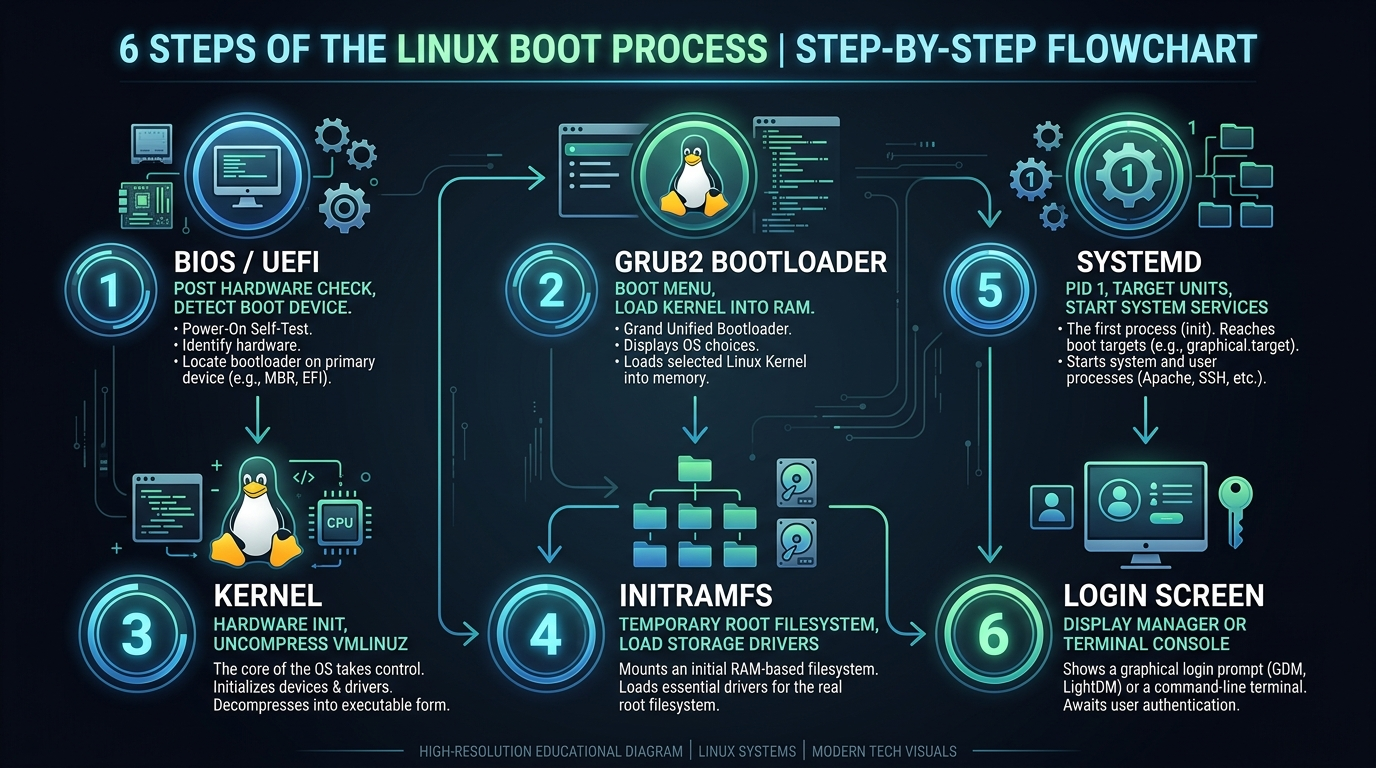
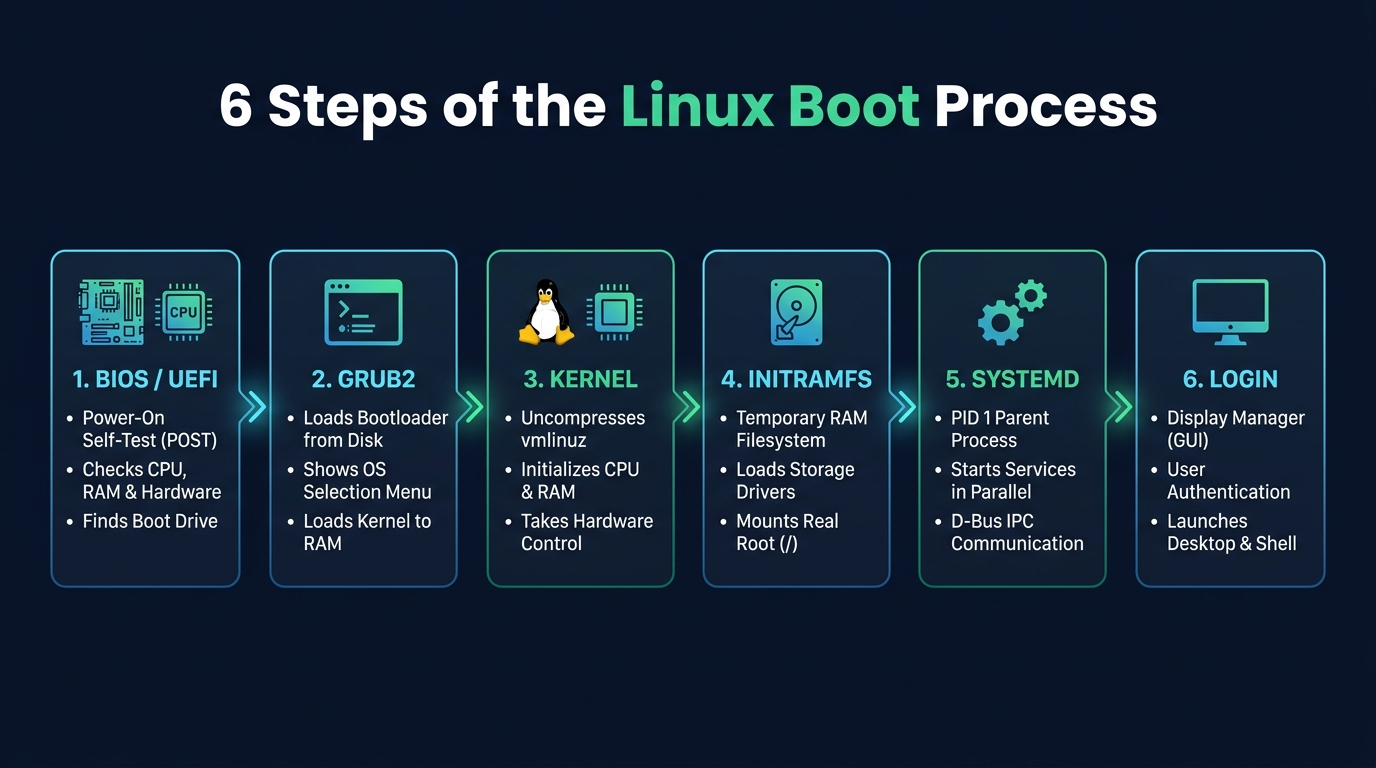
update boot process image

diff --git a/LINUX_BOOT_PROCESS.md b/LINUX_BOOT_PROCESS.md
@@ -2,6 +2,9 @@
 
 පරිගණකයක Power Button එක එබූ මොහොතේ සිට ඔබ ඉදිරියට Desktop එක හෝ Terminal Login Prompt එක පැමිණෙන තෙක් තිරය පිටුපස සිදුවන **Linux Booting Process** එක ඉතා සරලව, සැබෑ ජීවිතයේ උදාහරණ (Real-life Analogy) සමගින් පියවරෙන් පියවර මෙහි විස්තර කෙරේ.
 
+> 📺 **වීඩියෝ ආශ්රය (YouTube Video Reference):**  
+> මෙම පාඩම [▶ Linux boot process Explained - Animated](https://youtu.be/lLg0dp9Pic8?si=k-yDi9NilKPHg1zX) වීඩියෝව පාදක කරගනිමින්, එහි විස්තර වන ප්රධාන සංකල්ප (Choreographed Relay Race, Parallel Systemd Units, D-Bus Communication Bus, සහ Bottleneck Critical Chain Analysis) පරිපූර්ණව ගළපා සකස් කර ඇත.
+
 ---
 
 ## 🖼 Linux Boot Process එකේ ප්රධාන පියවර 6 (Visual Flowchart)
@@ -11,17 +14,36 @@
 > 💡 **රූපය පෙනෙන්නේ නැතිනම්:** IDE / VS Code එකේ ඉහළ දකුණු කෙළවරේ ඇති **"Open Preview"** icon එක ක්ලික් කරන්න (කෙටිමං යතුර: `Ctrl + Shift + V`). 
 > නැතහොත් රූපය කෙලින්ම විවෘත කර බැලීමට [මෙතැන ක්ලික් කරන්න (Click to open image)](./linux_boot_process.jpg).
 
+### 📋 රූපයේ ඇති පියවර 6 හි නිශ්චිත ක්රියාකාරකම් (Step-by-Step Actions):
+
+| පියවර (Card) | ප්රධාන කාර්යය (Core Duty) | එක් එක් පියවරේදී සිදුවන දේ (What Happens) |
+| :---: | :--- | :--- |
+| **1. BIOS / UEFI** | **Hardware POST Check** | • **Power-On Self-Test (POST):** CPU, RAM, Keyboard, GPU හරියට තියෙනවද පරික්ෂා කරයි.<br/>• **Hardware Initializing:** Motherboard bus සහ මූලික උපාංග හඳුනා ගනී.<br/>• **Finds Boot Drive:** Boot priority අනුව Hard Drive/NVMe හෝ USB සෙවීම. |
+| **2. GRUB2** | **Bootloader & Menu** | • **Loads Bootloader from Disk:** Disk එකෙන් (MBR / EFI) Bootloader RAM එකට ගනී.<br/>• **Shows OS Selection Menu:** තිරයේ තත්පර ගණනක OS තේරීමේ මෙනුව පෙන්වයි.<br/>• **Loads Kernel to RAM:** ඔබ තෝරන Linux Kernel (`vmlinuz`) & `initrd` RAM එකට දමයි. |
+| **3. KERNEL** | **OS Core & Hardware Init** | • **Uncompresses vmlinuz:** සම්පීඩිත Kernel ගොනුව RAM එක තුළ විසුරුවා හරියි.<br/>• **Initializes CPU & RAM:** CPU Cores, Memory Controllers සක්රීය කරයි.<br/>• **Takes Hardware Control:** උපාංග සියල්ලේම මූලික පාලනය තම අතට ගනී. |
+| **4. INITRAMFS** | **Drivers & Mount Root** | • **Temporary RAM Filesystem:** RAM එක තුළ තාවකාලික root directory (`/`) එකක් හදයි.<br/>• **Loads Storage Drivers:** NVMe, SATA, LVM, RAID සහ Ext4/XFS drivers load කරයි.<br/>• **Mounts Real Root (/):** සැබෑ Hard Disk එක හඳුනාගෙන සැබෑ `/` partition එක Mount කරයි. |
+| **5. SYSTEMD** | **PID 1 & Parallel Services** | • **PID 1 Parent Process:** OS එකේ මුල්ම user space process එක ලෙස ක්රියාත්මක වේ.<br/>• **Starts Services in Parallel:** Network, Wi-Fi, SSH, Audio, Daemons එකවර පණ ගන්වයි.<br/>• **D-Bus IPC Communication:** සේවාවන් අතර පණිවිඩ හුවමාරුවට D-Bus ක්රියාත්මක කරයි. |
+| **6. LOGIN** | **Display Manager & Session** | • **Display Manager (GUI):** GDM/LightDM හරහා Graphical Login UI එක (හෝ TTY) දෙයි.<br/>• **User Authentication:** පරිශීලක නාමය සහ මුරපදය තහවුරු කරගනී.<br/>• **Launches Desktop & Shell:** `~/.bashrc` කියවා GNOME/KDE හෝ Bash Shell එක විවෘත කරයි. |
+
 ---
 
-## 💡 සරල ජීවිත උදාහරණය (Real-Life Analogy)
+## 💡 සරල ජීවිත උපමා 2ක් (Real-Life Analogies)
 
-Linux Boot Process එක හරියට **විශාල හෝටලයක් උදෑසන විවෘත කරනවා වගේ වැඩක්:**
+### 🏃 1. "The Choreographed Relay Race" (බැටන් පොල්ල මාරු වන රිලේ තරඟය)
+වීඩියෝවේ දක්වන පරිදි Linux Boot වීම යනු ඉතා සැලසුම් සහගත **රිලේ තරඟයක් (Choreographed Relay Race)** බඳුය. එක් ක්රීඩකයෙක් (Stage) තම වගකීම නිමවා, පද්ධතියේ පාලනය නමැති **"බැටන් පොල්ල" (Baton)** ඊළඟ ක්රීඩකයාට අතින් අත භාර දෙයි:
+1. 🏃 **Runner 1 (BIOS / UEFI):** ධාවන පථය (Hardware) පරීක්ෂා කර සූදානම් කරයි ➔ **Baton එක GRUB වෙත.**
+2. 🏃 **Runner 2 (GRUB Bootloader):** දුවන්නේ කිනම් ධාවන පථයේද (OS/Kernel) කියා තෝරා ගනී ➔ **Baton එක Kernel වෙත.**
+3. 🏃 **Runner 3 (Kernel & Initramfs):** මොළය ක්රියාත්මක කර, Initramfs සහායකයා ලවා ගබඩාවේ (Hard Disk) දොර ඇරගනී ➔ **Baton එක Systemd (PID 1) වෙත.**
+4. 🏃 **Runner 4 (Systemd - The Orchestrator):** සියලු පසුබිම් සේවාවන් (Network, Audio, Bluetooth) එකවර සමාන්තරව පණ ගන්වයි.
+5. 📻 **The Walkie-Talkie (D-Bus):** සේවාවන් සහ Desktop එක එකිනෙකා සමඟ කතා කර ගැනීමට D-Bus නම් සංඥා පද්ධතිය ක්රියාත්මක කරයි.
+6. 🏁 **The Finish Line (Login Screen & Desktop):** පරිශීලකයාට සුබ පතමින් Graphical Desktop එක හෝ Shell එක විවෘත කර තරඟය ජයග්රාහීව නිමා කරයි!
 
+### 🏨 2. "The Hotel Opening" (හෝටලයක් විවෘත කිරීමේ උපමාව)
 1. **BIOS / UEFI:** මුරකරු පැමිණ හෝටලයේ ප්රධාන විදුලිය, ජල සැපයුම, දොර ජනෙල් හරියට තිබේදැයි පරික්ෂා කරයි (Hardware Check).
 2. **GRUB Bootloader:** හෝටල් කළමනාකරු පැමිණ අද දිනයේ ක්රියාත්මක කළ යුත්තේ සාමාන්ය මෙනුවද (Normal Kernel) නැතහොත් හදිසි අලුත්වැඩියා මෙනුවද (Recovery Mode) කියා තෝරා ගනී.
 3. **Kernel:** ප්රධාන විධායක නිලධාරියා (CEO) ඇතුළු වී මුළු හෝටලයේම අංශ පාලනය භාර ගනී.
 4. **Initramfs:** ප්රධාන ගබඩා කාමරයේ යතුරු රැගෙන ගබඩාවේ දොර විවෘත කරගනී (Hard Disk Drivers load කිරීම).
-5. **Systemd (PID 1):** ප්රධාන මැනේජර් පැමිණ කුස්සිය, AC, Lighting, Security කැමරා ආදී සියලුම සේවාවන් එකින් එක පණ ගන්වයි (Services Start).
+5. **Systemd (PID 1):** ප්රධාන මැනේජර් පැමිණ කුස්සිය, AC, Lighting, Security කැමරා ආදී සියලුම සේවාවන් එකවර පණ ගන්වයි (Services Start).
 6. **Login Screen:** හෝටලයේ ප්රධාන දොරටුව අමුත්තන් (Users) සඳහා විවෘත කර පිළිගැනීමේ කවුන්ටරය (Reception Desk) සූදානම් කරයි.
 
 ---
@@ -100,31 +122,49 @@ flowchart TD
 
 ---
 
-### පියවර 5: Systemd / Init (ප්රධාන පාලකයා - PID 1)
+### පියවර 5: Systemd / Init (ප්රධාන පාලකයා - PID 1 & Orchestrator)
 
 * **PID 1 යනු:** Process ID 1. Linux පද්ධතියේ ධාවනය වන අනෙකුත් සියලුම processes වල මව් process එක (Parent of all processes) මෙයයි.
-* **නූතන පද්ධති වල:** Ubuntu, Debian, RedHat, CentOS, Fedora, Arch ආදී සියල්ලෙහිම දැන් default භාවිත වන්නේ **Systemd** වේ. (පැරණි Linux වල SysV Init භාවිත විය).
-* **සිදුවන දේ:**
-  * `/etc/fstab` ගොනුව කියවා ඉතිරි සියලුම Hard drive partitions mount කරයි.
-  * පසුබිමේ ධාවනය වන සේවාවන් (Daemons/Services) සමාන්තරව (parallelly) වේගයෙන් පණ ගන්වයි:
-    * Networking & Wi-Fi සේවාවන්
-    * SSH Server (`sshd`)
-    * Cron jobs (`cron`)
-    * Firewall & Security policies
-    * Sound, Bluetooth, Printing සේවාවන්
-* **Systemd Targets:** 
-  * `multi-user.target`: CLI (Terminal පමණක් ඇති Server පරිසරයක්).
-  * `graphical.target`: GUI (Desktop Environment එක සහිත පරිසරයක්).
+* **නූතන පද්ධති වල:** Ubuntu, Debian, RedHat, CentOS, Fedora, Arch ආදී සියල්ලෙහිම දැන් default භාවිත වන්නේ **Systemd** වේ.
+* **⚡ Parallel Execution (වේගයේ රහස):**
+  * පැරණි **SysV Init** ක්රමයේදී සේවාවන් පණ ගැන්වුණේ එකින් එක පිළිවෙලට (Serial/Sequential) බැවින් පරිගණකය boot වීමට මිනිත්තු කිහිපයක් ගත විය.
+  * නමුත් **Systemd** මඟින් සේවාවන් අතර ඇති dependencies හඳුනාගෙන එකවර සේවාවන් රැසක් **සමාන්තරව (In Parallel)** පණ ගන්වයි. එම නිසා නූතන Linux තත්පර 3-5 කින් boot වේ!
+* **Systemd Unit Files:** 
+  * `.service`: පසුබිම් සේවා (උදා: `NetworkManager.service`, `bluetooth.service`, `sshd.service`).
+  * `.target`: සේවා සමූහයක් එකට එකතු කරන ඉලක්ක (උදා: `graphical.target`, `multi-user.target`).
+  * `.socket`, `.mount`, `.timer`: අවශ්ය විටෙක පමණක් සේවා පණ ගන්වන නවීන ක්රම.
+
+#### 🚌 නොපෙනෙන සන්නිවේදකයා: D-Bus (Desktop Bus)
+වීඩියෝවේ විශේෂයෙන් පැහැදිලි කරන අතිශය වැදගත් කොටසක් වන්නේ **D-Bus** ය:
+* **D-Bus යනු කුමක්ද?:** **Inter-Process Communication (IPC)** පද්ධතියකි. පද්ධතියේ ධාවනය වන විවිධ සේවාවන් එකිනෙකා සමඟ කතාබහ කරන්නේ D-Bus හරහාය.
+* **System Bus:** මුළු Operating System එකටම පොදු සංඥා හුවමාරු කරයි (උදා: Wi-Fi සම්බන්ධ වීම, Battery low වීම, Pen drive එකක් ඇතුළු කළ බව දැනුම් දීම).
+* **Session Bus:** ඔබගේ Desktop එක සහ Apps අතර සන්නිවේදනය සලසයි (උදා: Spotify එකේ සිංදුවක් මාරු වන විට Desktop Notification එකක් පෙන්වීම).
+* `systemctl` මඟින් Systemd වෙත විධානයන් ලබා දෙන්නේද D-Bus හරහාය.
+
+```mermaid
+flowchart LR
+    Systemd["⚙ Systemd (PID 1)"] --> S1["🌐 NetworkManager"]
+    Systemd --> S2["🔊 Audio Server"]
+    Systemd --> S3["🔒 SSH / Firewall"]
+    Systemd --> DBus["🚌 D-Bus (IPC Hub)"]
+    DBus <--> Apps["🖥 Desktop GUI & User Apps"]
+
+    style Systemd fill:#1e293b,stroke:#f97316,stroke-width:2px,color:#fff
+    style DBus fill:#1e293b,stroke:#06b6d4,stroke-width:2px,color:#fff
+    style Apps fill:#1e293b,stroke:#ec4899,stroke-width:2px,color:#fff
+```
 
 ---
 
-### පියවර 6: Runlevel / Target & Login Screen (පිළිගැනීමේ තිරය)
+### පියවර 6: User Space, Display Manager & Desktop Session (පිළිගැනීමේ තිරය)
 
-* **සිදුවන දේ:** පද්ධතිය සියලුම සේවාවන් ක්රියාත්මක කර අවසානයේ පරිශීලකයාට log වීමට සුදානම් වේ.
-* **Desktop පරිගණකයක නම් (GUI):**
-  * Display Manager එක (GDM - GNOME, LightDM, SDDM) මඟින් ලස්සන Graphical Login තිරයක් පෙන්වයි.
-  * Username සහ Password ඇතුළත් කළ පසු GNOME, KDE, හෝ XFCE Desktop එක විවෘත වේ.
-* **Server පරිගණකයක නම් (CLI):**
+* **සිදුවන දේ:** පද්ධතියේ සියලුම සේවාවන් සාර්ථකව පණ ගැන්වීමෙන් පසු පරිශීලකයා පිළිගැනීමට User Space එක සූදානම් කරයි.
+* **Desktop පරිගණකයක නම් (GUI Target):**
+  1. **Display Manager:** GDM (GNOME), LightDM, හෝ SDDM මඟින් ලස්සන Graphical Login තිරයක් පෙන්වයි.
+  2. **Authentication:** Username සහ Password පරික්ෂා කර සාර්ථක වූ පසු User Session එක ආරම්භ වේ.
+  3. **User Config Load වීම:** පරිශීලකයාගේ පරිසර සැකසුම් (`~/.profile`, `~/.bashrc`, environment variables) කියවයි.
+  4. **Desktop Environment:** Wayland හෝ X11 මඟින් GNOME, KDE Plasma, හෝ XFCE ඩෙස්ක්ටොප් එක තිරය මත අඳියි.
+* **Server පරිගණකයක නම් (CLI - Multi-User Target):**
   * `getty` මඟින් Terminal Console එකේ Login Prompt එක පෙන්වයි:
     ```text
     Ubuntu 24.04 LTS server1 tty1
@@ -154,7 +194,20 @@ systemd-analyze blame
 ```
 *(මෙහිදී පද්ධතිය slow කරන services සොයාගත හැක)*
 
-### 3. Kernel එක Boot වන විට සිදුවූ දේ බැලීම (Kernel Ring Buffer):
+### 3. ප්රමාදයන් ඇති කළ බැඳුණු සේවා දාමය සෙවීම (Critical Bottleneck Chain):
+```bash
+systemd-analyze critical-chain
+```
+* **වීඩියෝවේ පැහැදිලි කළ පරිදි:** එක් සේවාවක් පටන් ගැනීමට තවත් සේවාවක් නිමවන තෙක් බලා සිටීමට සිදුවන අවස්ථා ඇත (Dependency Chain). Boot වීම ප්රමාද කරන ප්රධානම bottleneck chain එක රතු පැහැයෙන් මෙහිදී සොයාගත හැක:
+  ```text
+  graphical.target @4.100s
+  └─multi-user.target @4.098s
+    └─docker.service @2.150s +1.200s
+      └─network.target @2.140s
+        └─NetworkManager.service @1.420s +720ms
+  ```
+
+### 4. Kernel එක Boot වන විට සිදුවූ දේ බැලීම (Kernel Ring Buffer):
 ```bash
 dmesg | less
 ```
@@ -164,13 +217,13 @@ dmesg | grep -i "memory"
 dmesg | grep -i "root mount"
 ```
 
-### 4. අංක 1 Process එක (PID 1) Systemd බව තහවුරු කරගැනීම:
+### 5. අංක 1 Process එක (PID 1) Systemd බව තහවුරු කරගැනීම:
 ```bash
 ps -p 1 -o comm=
 ```
 * **ප්රතිදානය:** `systemd`
 
-### 5. පරිගණකයේ ඇති Kernel ගොනු සහ Initrd ගොනු බැලීම:
+### 6. පරිගණකයේ ඇති Kernel ගොනු සහ Initrd ගොනු බැලීම:
 ```bash
 ls -lh /boot
 ```
@@ -180,14 +233,14 @@ ls -lh /boot
 
 ## 🧠 ඉක්මන් මතක් කිරීමේ වගුව (Quick Recap Table)
 
-| පියවර | නම | භූමිකාව (Role) | සැබෑ ජීවිත සමානතාව |
-| :---: | :--- | :--- | :--- |
-| **1** | **BIOS / UEFI** | Hardware පරික්ෂාව (POST) සහ Boot device එක තේරීම | ආරක්ෂක මුරකරුවා විදුලිය සහ දොරවල් පරීක්ෂා කිරීම |
-| **2** | **GRUB2** | OS එක තෝරා ගැනීමට Menu එක ලබා දීම සහ Kernel එක RAM එකට පැටවීම | හෝටල් මෙනුවෙන් අද ක්රියාත්මක කරන්නේ කුමක්දැයි තේරීම |
-| **3** | **Kernel** | මෙහෙයුම් පද්ධතියේ හදවත. Hardware drivers init කිරීම | ආයතනයේ ප්රධාන විධායක නිලධාරියා (CEO) පැමිණීම |
-| **4** | **Initramfs** | Storage drivers ලබාගෙන සැබෑ Root (`/`) partition එක mount කිරීම | ප්රධාන ගබඩා කාමරයේ ආරක්ෂිත යතුරු ලබා ගැනීම |
-| **5** | **Systemd (PID 1)** | පසුබිමේ ඇති සියලුම Services සහ Daemons එකින් එක පණ ගැන්වීම | හෝටලයේ සියලුම අංශ (AC, Security, Light) ක්රියාත්මක කිරීම |
-| **6** | **Login Screen** | පරිශීලකයාට Username & Password ලබා දී ඇතුළු වීමට ඉඩ දීම | පිළිගැනීමේ කවුන්ටරය (Reception) අමුත්තන්ට විවෘත කිරීම |
+| පියවර | නම | භූමිකාව (Role) | රිලේ තරඟයේ භූමිකාව (Relay Analogy) | හෝටල් උපමාව |
+| :---: | :--- | :--- | :--- | :--- |
+| **1** | **BIOS / UEFI** | Hardware පරික්ෂාව (POST) සහ Boot device එක තේරීම | **Runner 1:** ධාවන පථය (Hardware) පරීක්ෂා කර Baton එක දෙයි | ආරක්ෂක මුරකරුවා විදුලිය සහ දොරවල් පරීක්ෂා කිරීම |
+| **2** | **GRUB2** | OS තේරීමේ Menu එක දී Kernel එක RAM එකට පැටවීම | **Runner 2:** දුවන OS ධාවන පථය තෝරා Baton එක දෙයි | මෙනුවෙන් අද ක්රියාත්මක කරන්නේ කුමක්දැයි තේරීම |
+| **3** | **Kernel** | OS හි හදවත. Hardware drivers init කිරීම | **Runner 3:** මොළය ක්රියාත්මක වී කණ්ඩායම මෙහෙයවයි | ආයතනයේ ප්රධාන විධායක නිලධාරියා (CEO) පැමිණීම |
+| **4** | **Initramfs** | Drivers ගෙන සැබෑ Root (`/`) partition එක mount කිරීම | **Helper:** ගබඩාවේ (Hard disk) යතුර ලබා දෙයි | ප්රධාන ගබඩා කාමරයේ ආරක්ෂිත යතුරු ලබා ගැනීම |
+| **5** | **Systemd & D-Bus** | Services සමාන්තරව පණ ගැන්වීම සහ IPC සන්නිවේදනය | **Runner 4 & Radio:** සියලු සේවා එකවර දුවවා Walkie-Talkie සබඳතා හදයි | හෝටලයේ සියලු අංශ (AC, Light) එකවර ක්රියාත්මක කිරීම |
+| **6** | **Login & Desktop** | Display Manager, Shell සහ User Session ඇරඹීම | **Finish Line:** පරිශීලකයාට සුබ පතමින් ජයග්රාහීව භාර දෙයි | පිළිගැනීමේ කවුන්ටරය (Reception) අමුත්තන්ට විවෘත කිරීම |
 
 ---
 
